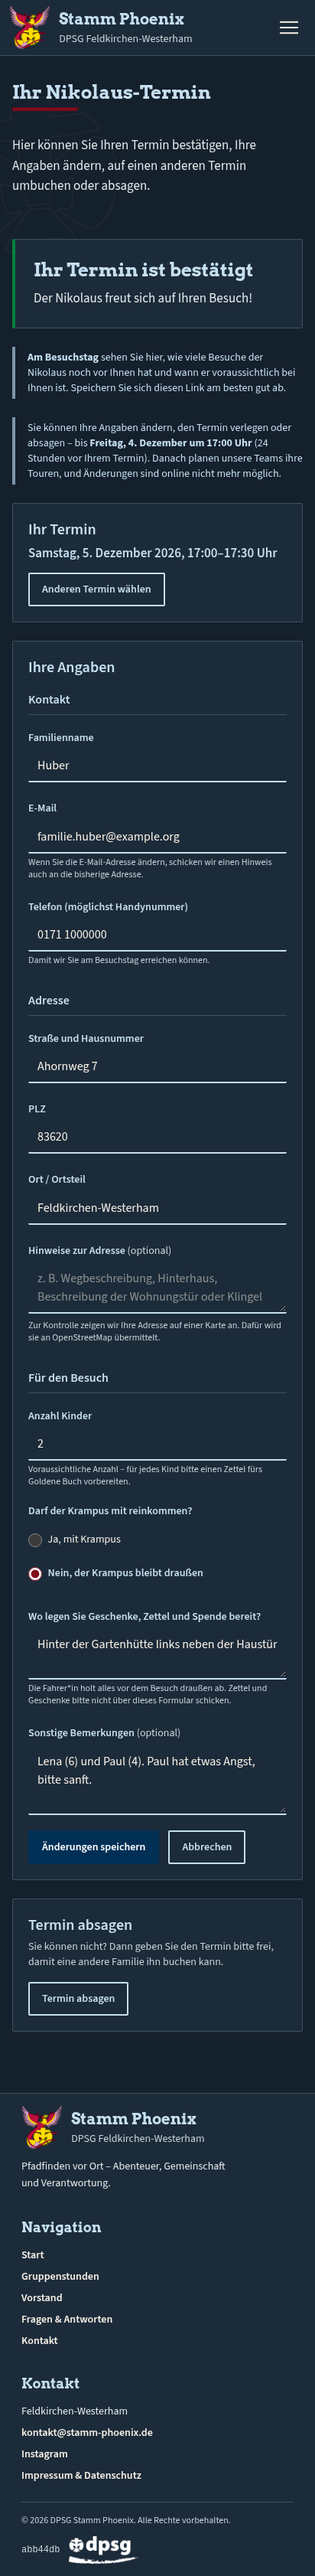
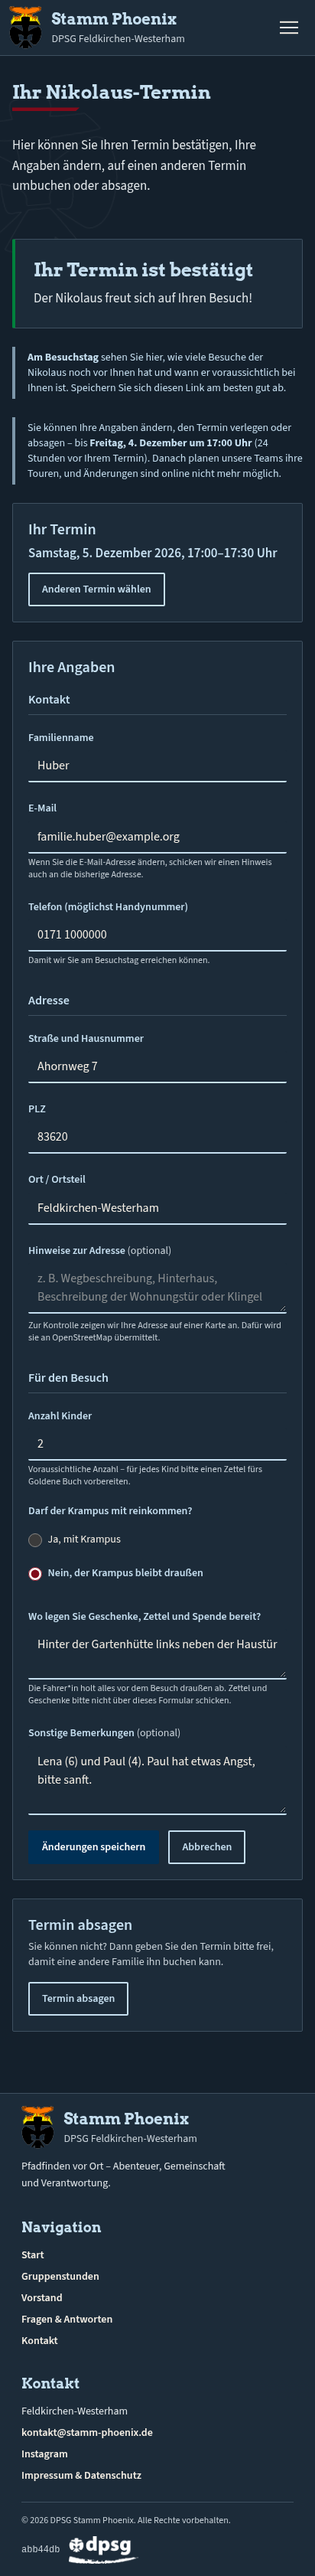
fix(ui): restore original vector lily in navigation and footer

Changed region(s): [[0.0583, 0.8113, 0.6117, 0.8425], [0.0291, 0.0, 0.5825, 0.0312]]

diff --git a/docs/ui/leitfaden.md b/docs/ui/leitfaden.md
@@ -23,7 +23,7 @@ Der Vergleich mit dem Brief hat zwei Änderungen am Vorschlag ergeben. Die wiede
 
 ## Gemeinsame Bausteine
 
-- `BrandMark.astro` zeigt Phoenix und DPSG ohne Hintergrundkasten und mit unverändertem Seitenverhältnis. Phoenix verwendet dieselbe farbige Vektormarke wie die Startseite. Die DPSG-Marke erscheint im dunklen Theme monochrom weiß.
+- `BrandMark.astro` zeigt Phoenix und DPSG ohne Hintergrundkasten und mit unverändertem Seitenverhältnis. Header und Footer verwenden die ursprüngliche Stammeslilie aus `public/stammeslilie.svg`. Eine feine helle Kontur macht ihre schwarze Form im dunklen Theme erkennbar. Die DPSG-Marke erscheint im dunklen Theme monochrom weiß.
 
 - `Button.astro` für statische Links und Buttons, `ui/ActionButton.svelte` für interaktive Buttons. Beide verwenden `.btn-primary`, `.btn-secondary` und `.btn-danger` aus `global.css`. Svelte-Buttons erhalten einen expliziten `type`, besonders in Formularen. Die Komponente reicht HTML-Attribute, Handler, `disabled` und `aria-busy` durch.
 - `ui/FilterTabs.svelte` für Ansichten und Filter mit `aria-pressed`. Das ist eine Gruppe von Filterschaltern, keine ARIA-Tabliste. Echte Tabpanels wie in der Abrechnung behalten ihre Pfeiltastensteuerung.
